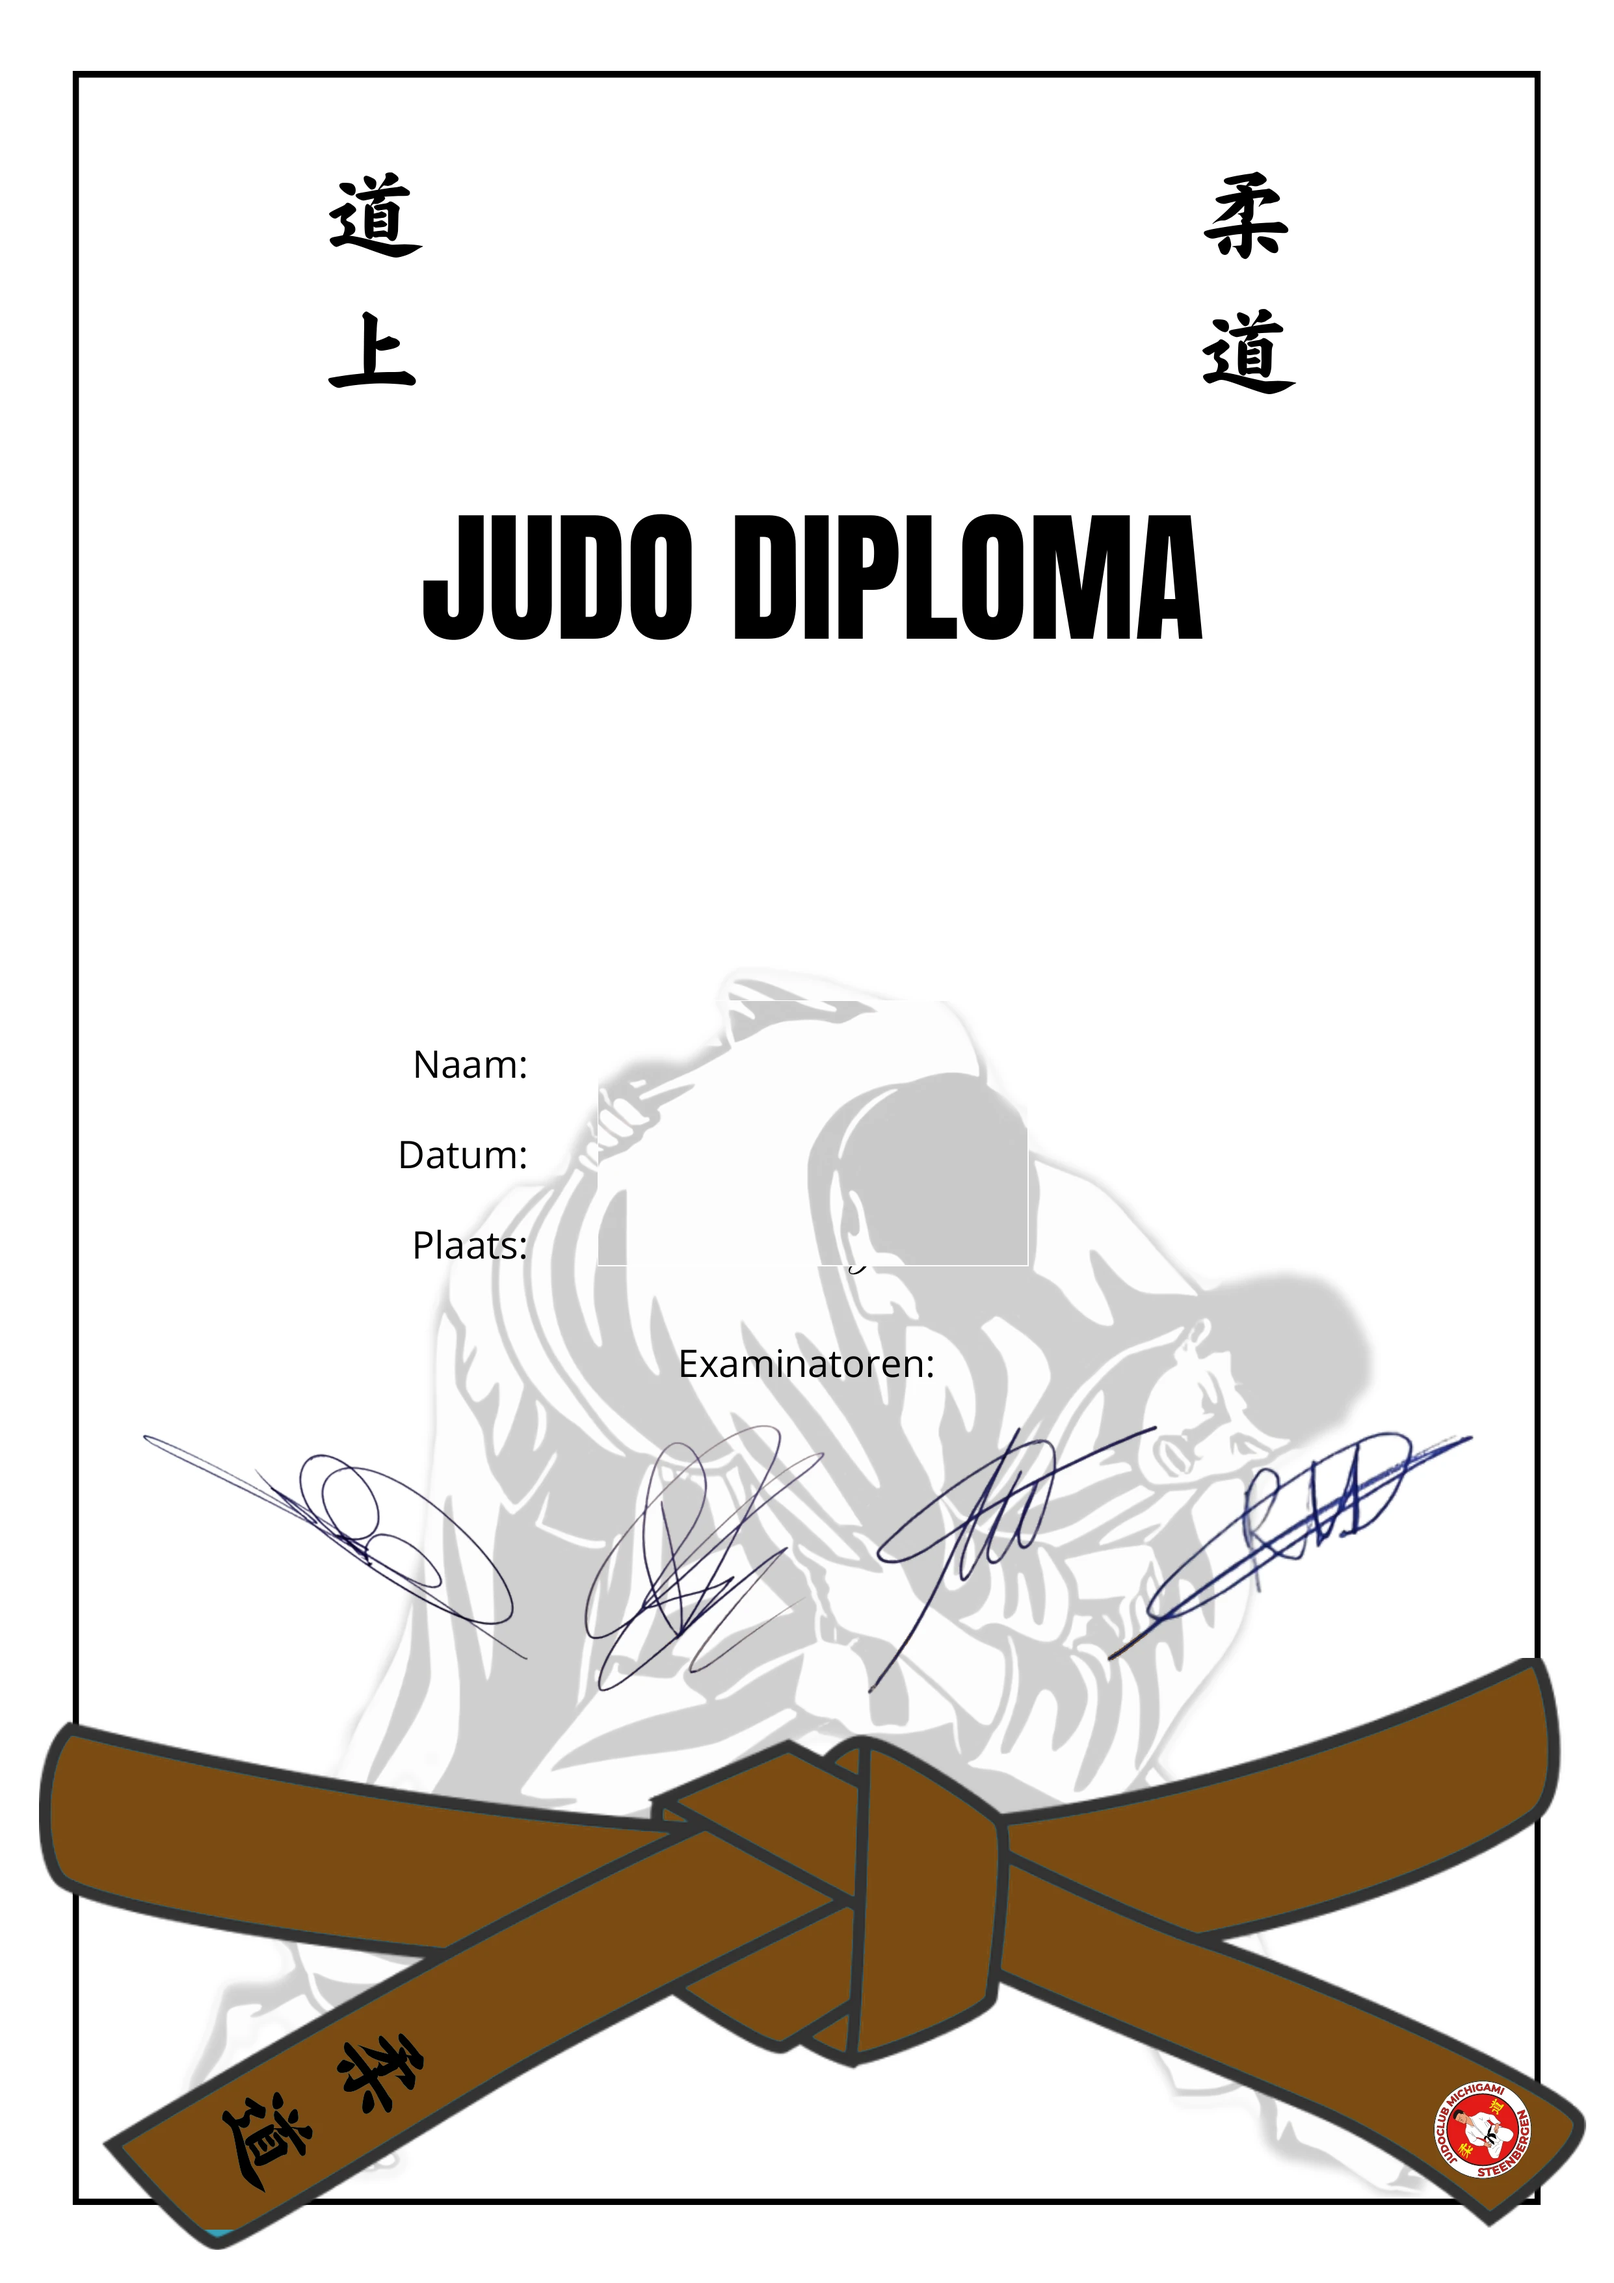
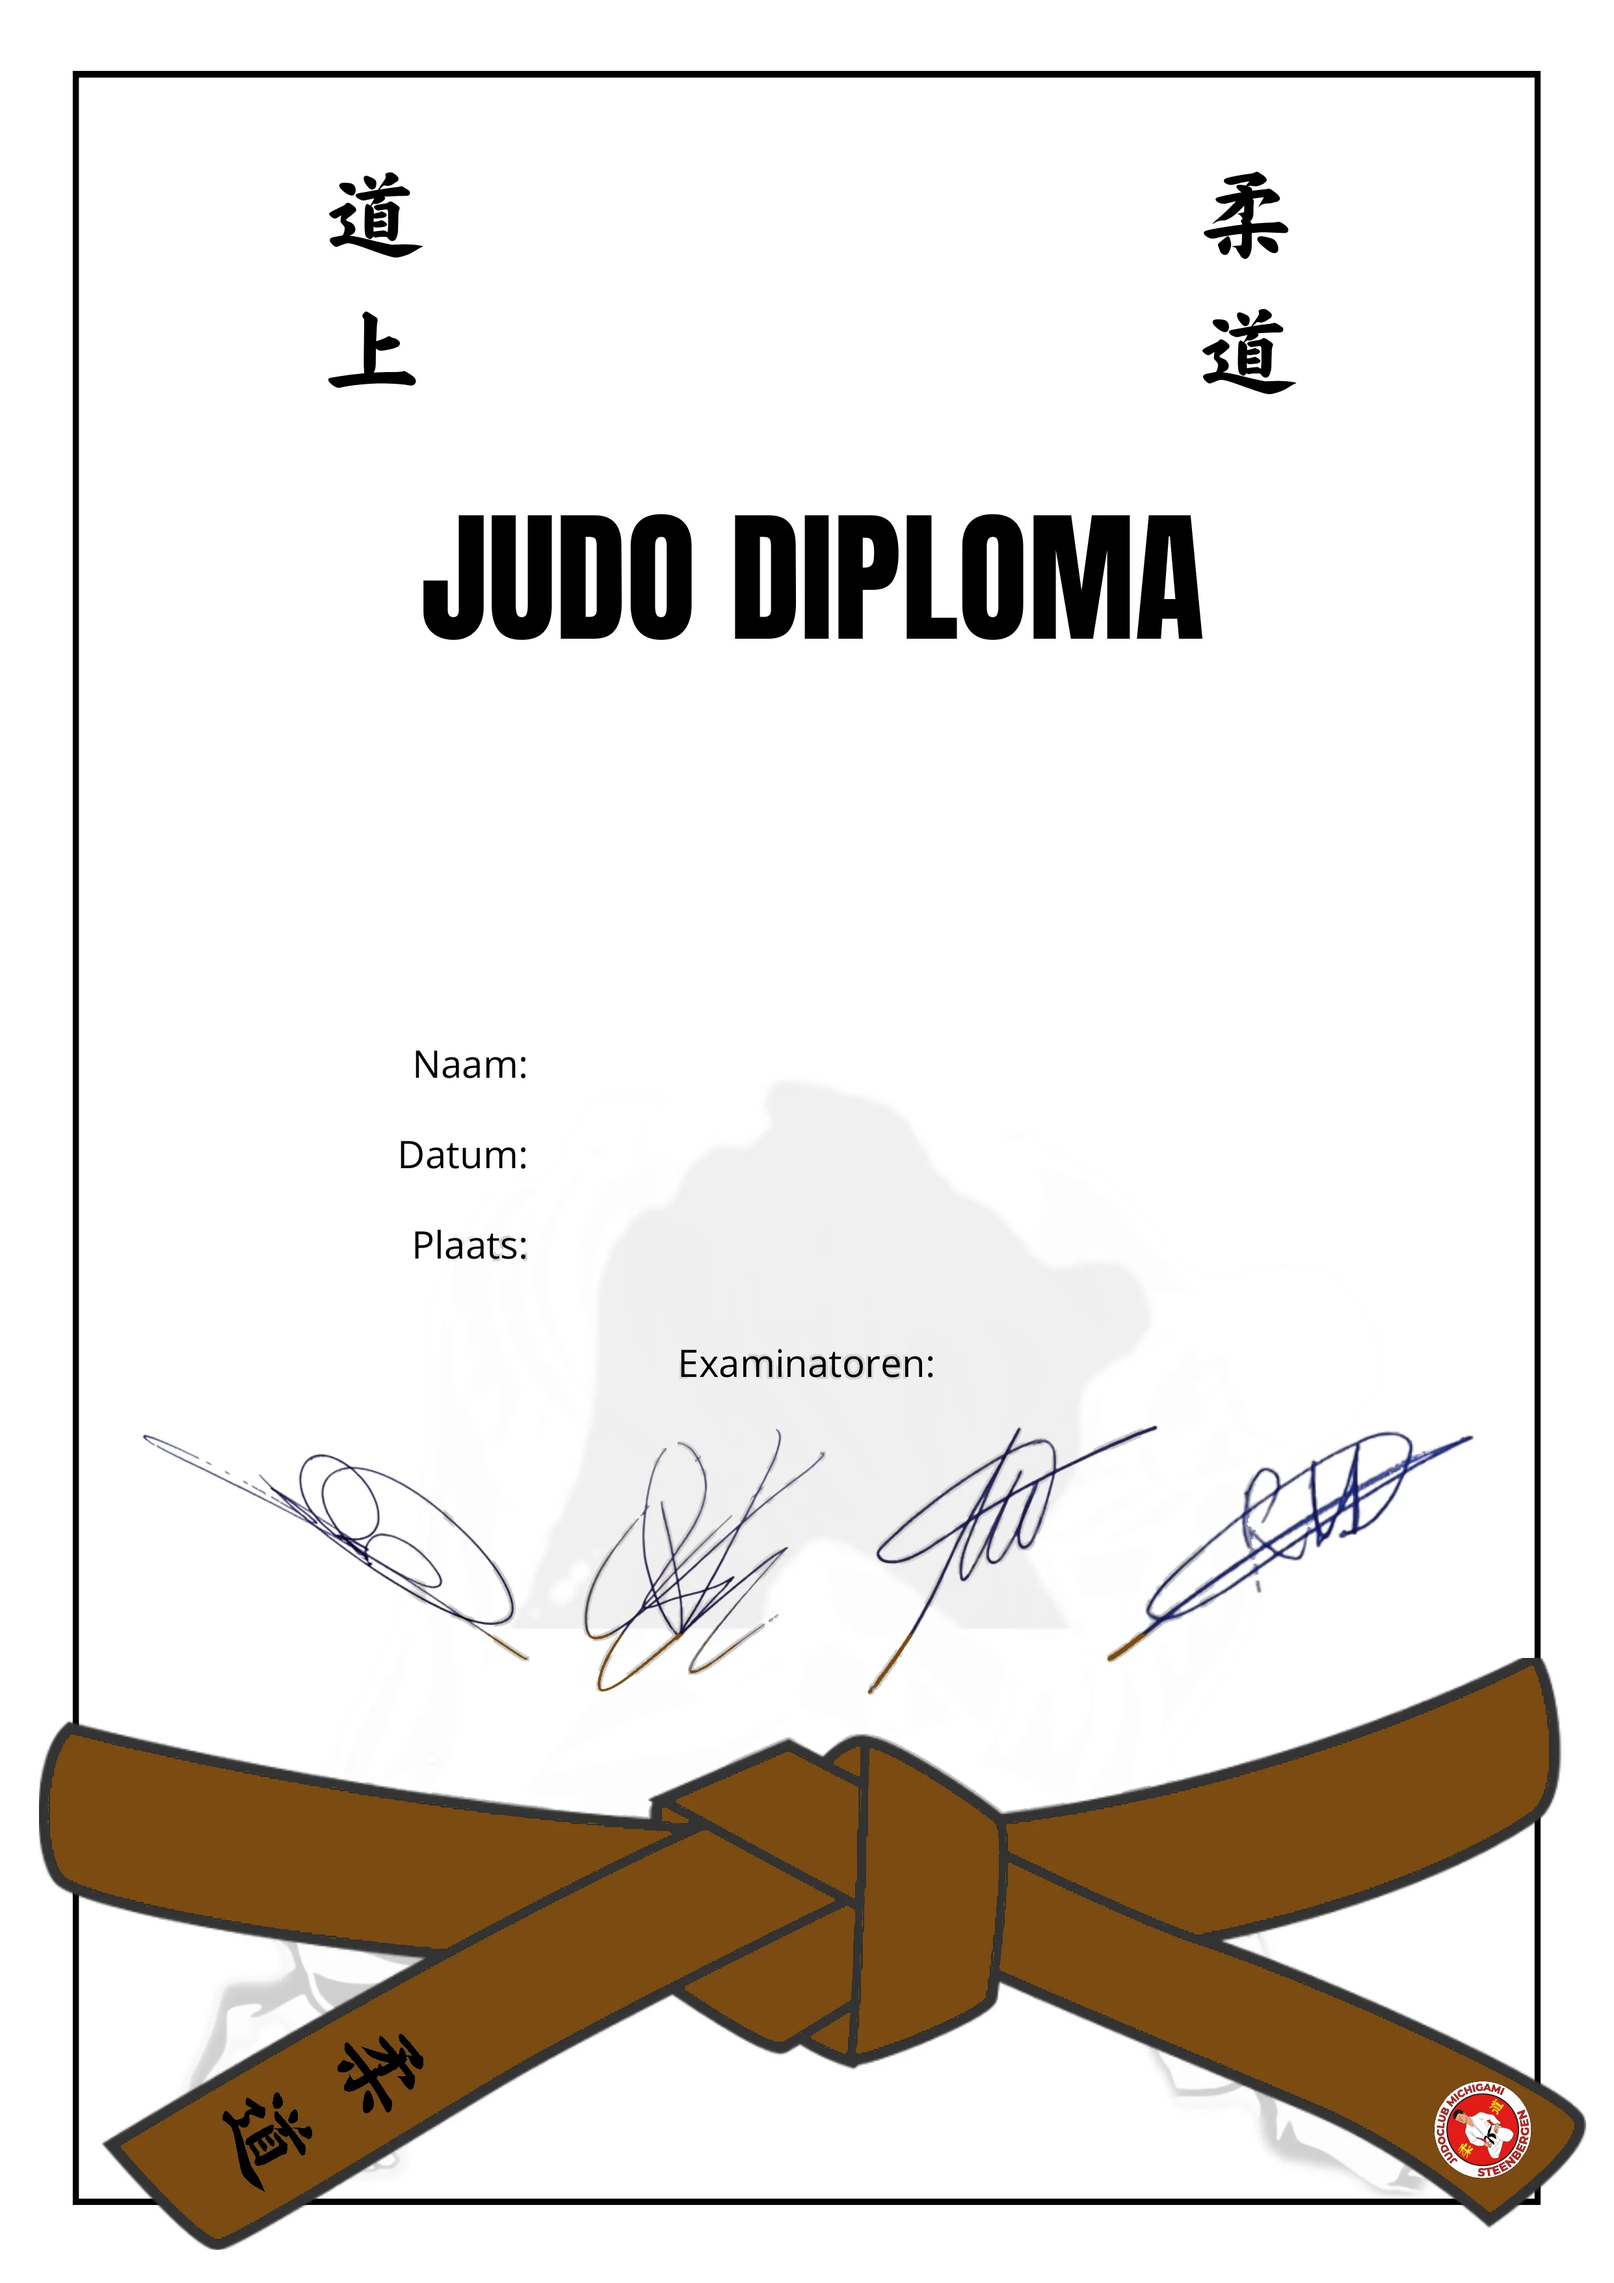
fix: diploma-printmarges 1:1 gecentreerd + achtergronden opgeschoond (watermerk vierkant/licht, monster-teksten+schaduwen weg, obi bruin zonder blauw)

Changed region(s): [[0.2172, 0.4348, 0.8687, 0.8385], [0.4964, 0.8695, 0.5274, 0.9006], [0.4964, 0.8074, 0.5274, 0.8385]]

diff --git a/src/components/diploma/DiplomaReplica.tsx b/src/components/diploma/DiplomaReplica.tsx
@@ -19,11 +19,13 @@ export default function DiplomaReplica({ design, naam, datum, plaats }: {
       <style dangerouslySetInnerHTML={{ __html: `
         @page { size: A4; margin: 0; }
         .diploma-root { -webkit-print-color-adjust: exact; print-color-adjust: exact; }
-        /* 192×271.6 mm, gecentreerd: past binnen de onafdrukbare marge van de clubprinter
-           (links ~5, rechts ~9 mm) → afdrukken valt exact in 't midden, geen Canva-shift nodig */
-        .diploma-page { position: relative; width: 192mm; height: 271.6mm; margin: 13mm auto 0; background: #fff; overflow: hidden; }
-        /* interieur blijft op Canva-maten (209.9×296.9 mm) en schaalt als geheel naar 192 mm */
-        .diploma-inner { position: absolute; left: 0; top: 0; width: 209.9mm; height: 296.9mm; transform: scale(0.914721); transform-origin: top left; }
+        /* 1:1 Canva-venster 204.4×289.4 mm op [0.4;3.8]: past exact in printzone printer
+           (printzone printer gemeten: x 2,54..207,28 / y 3,44..293,0 — horizontaal gecentreerd op papier) → GEEN fit-scale,
+           randen komen op ~9,8/9,4/9,8/9,8 mm van papier. Witte marges rechts/boven/onder weggeclipd. */
+        .diploma-page { position: relative; width: 204.38mm; height: 289.4mm; margin: 3.76mm auto 0; background: #fff; overflow: hidden; }
+        @media print { .diploma-page { margin: 3.76mm 0 0 -0.23mm; } }
+        /* interieur 1:1 Canva-maten, 3,2 mm opgeschoven (witte boven-marge afgeknipt) */
+        .diploma-inner { position: absolute; left: 0; top: -3.2mm; width: 209.9mm; height: 296.9mm; }
         .diploma-page .abs { position: absolute; }
         .diploma-page .txt { white-space: pre; }
         @font-face { font-family: 'Diploma Anton'; src: url('/diploma/fonts/Anton-Regular.ttf'); }

diff --git a/src/app/print/diplomas/page.tsx b/src/app/print/diplomas/page.tsx
@@ -48,7 +48,7 @@ export default async function PrintAlleDiploma({
       {metDiploma.length === 0 && (
         <p className="p-8 text-sm text-gray-600">Deze examenmomenten bevatten alleen slip-examens — die krijgen geen diploma.</p>
       )}
-      <div className="mx-auto w-fit py-6 print:py-0 print-fit">
+      <div className="mx-auto w-fit py-6 print:py-0 print:mx-0 print-fit">
         {metDiploma.map((a, i) => (
           <div key={a.id} data-id={a.id} className="diploma-item" style={{ breakBefore: i > 0 ? 'page' : 'auto' }}>
             <DiplomaReplica design={BAND_DESIGN[a.beltLevel]} naam={`${a.member.firstName} ${a.member.lastName}`} datum={datum} plaats={plaatsOptie} />

diff --git a/src/app/print/diploma/[attempt]/page.tsx b/src/app/print/diploma/[attempt]/page.tsx
@@ -58,7 +58,7 @@ export default async function PrintDiploma({
         </span>
         <PrintKnop />
       </div>
-      <div className="mx-auto w-fit py-6 print:py-0 print-fit">
+      <div className="mx-auto w-fit py-6 print:py-0 print:mx-0 print-fit">
         <DiplomaReplica design={design} naam={naam} datum={datum} plaats={plaatsOptie} />
       </div>
       <DiplomaNaamFitter />

diff --git a/public/sw.js b/public/sw.js
@@ -1,5 +1,5 @@
 /* PWA Service Worker — Judoclub Michigami */
-const CACHE_NAME = "michigami-v204-20261119";
+const CACHE_NAME = "michigami-v205-20261119";
 
 // Assets to pre-cache on install (critical for offline)
 const PRECACHE_URLS = [
